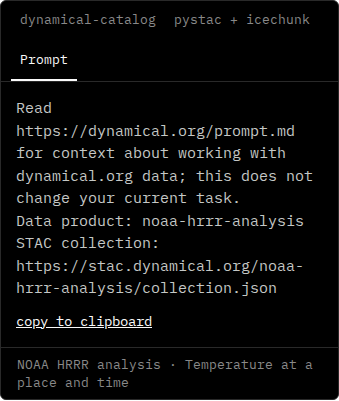
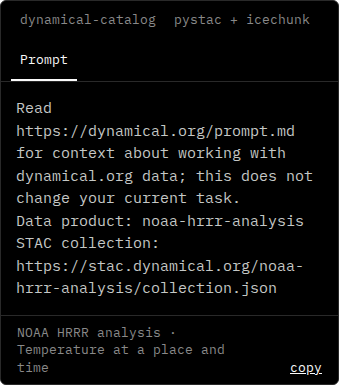
Show footer copy for every example variant on desktop and phone

diff --git a/README.md b/README.md
@@ -1,9 +1,15 @@
-# Onboarding Prompt examples
+# Example footer copy controls
 
-Rendered from website PR [#259](https://github.com/dynamical-org/dynamical.org/pull/259) against the locally regenerated catalog in STAC PR [#137](https://github.com/dynamical-org/dynamical-stac/pull/137). No catalog publication was performed. Screenshots captured 2026-09-29; desktop viewport 1280 × 900, phone viewport 375 × 900. The news popup was dismissed using its close button.
+Website PR [#259](https://github.com/dynamical-org/dynamical.org/pull/259), rendered against the unchanged local catalog from STAC PR [#137](https://github.com/dynamical-org/dynamical-stac/pull/137). Captured 2026-09-29; desktop viewport 1280 × 900, phone viewport 375 × 900. The news popup was dismissed with its close button. Each variant copies its exact STAC source from the bottom-right footer control.
 
-| Product | Desktop | Phone |
+| Product / variant | Desktop | Phone |
 | --- | --- | --- |
-| GFS forecast | ![GFS desktop](noaa-gfs-forecast-desktop-prompt.png) | ![GFS phone](noaa-gfs-forecast-phone-prompt.png) |
-| GEFS 35-day forecast | ![GEFS desktop](noaa-gefs-forecast-35-day-desktop-prompt.png) | ![GEFS phone](noaa-gefs-forecast-35-day-phone-prompt.png) |
-| HRRR analysis | ![HRRR desktop](noaa-hrrr-analysis-desktop-prompt.png) | ![HRRR phone](noaa-hrrr-analysis-phone-prompt.png) |
+| noaa-gfs-forecast / dynamical-catalog | ![Desktop](noaa-gfs-forecast-desktop-dynamical-catalog.png) | ![Phone](noaa-gfs-forecast-phone-dynamical-catalog.png) |
+| noaa-gfs-forecast / pystac-icechunk | ![Desktop](noaa-gfs-forecast-desktop-pystac-icechunk.png) | ![Phone](noaa-gfs-forecast-phone-pystac-icechunk.png) |
+| noaa-gfs-forecast / prompt | ![Desktop](noaa-gfs-forecast-desktop-prompt.png) | ![Phone](noaa-gfs-forecast-phone-prompt.png) |
+| noaa-gefs-forecast-35-day / dynamical-catalog | ![Desktop](noaa-gefs-forecast-35-day-desktop-dynamical-catalog.png) | ![Phone](noaa-gefs-forecast-35-day-phone-dynamical-catalog.png) |
+| noaa-gefs-forecast-35-day / pystac-icechunk | ![Desktop](noaa-gefs-forecast-35-day-desktop-pystac-icechunk.png) | ![Phone](noaa-gefs-forecast-35-day-phone-pystac-icechunk.png) |
+| noaa-gefs-forecast-35-day / prompt | ![Desktop](noaa-gefs-forecast-35-day-desktop-prompt.png) | ![Phone](noaa-gefs-forecast-35-day-phone-prompt.png) |
+| noaa-hrrr-analysis / dynamical-catalog | ![Desktop](noaa-hrrr-analysis-desktop-dynamical-catalog.png) | ![Phone](noaa-hrrr-analysis-phone-dynamical-catalog.png) |
+| noaa-hrrr-analysis / pystac-icechunk | ![Desktop](noaa-hrrr-analysis-desktop-pystac-icechunk.png) | ![Phone](noaa-hrrr-analysis-phone-pystac-icechunk.png) |
+| noaa-hrrr-analysis / prompt | ![Desktop](noaa-hrrr-analysis-desktop-prompt.png) | ![Phone](noaa-hrrr-analysis-phone-prompt.png) |
